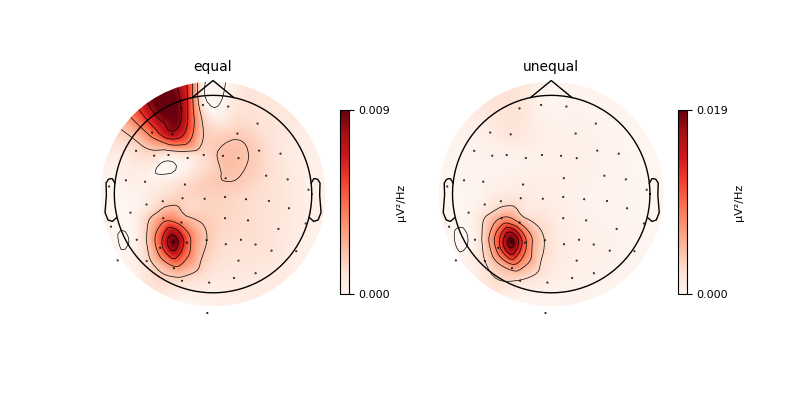
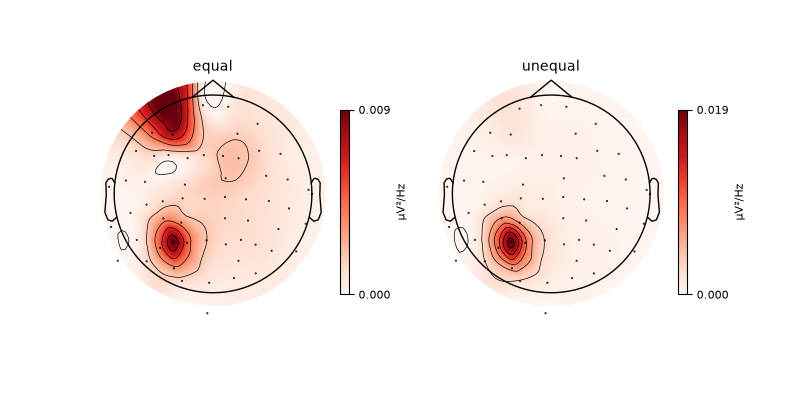
FIX: use single colors for patches instead of colormaps (#95)

diff --git a/src/meegsim/viz.py b/src/meegsim/viz.py
@@ -1,9 +1,11 @@
+from matplotlib.colors import ListedColormap
+
 from meegsim._check import check_colors, check_scale_factors
 from meegsim.sources import _get_point_sources_in_hemi, _get_patch_sources_in_hemis
 from meegsim.utils import _hemi_to_index
 
 
-DEFAULT_COLORS = dict(point="green", patch="Oranges", noise="black", candidate="yellow")
+DEFAULT_COLORS = dict(point="green", patch="orange", noise="black", candidate="yellow")
 DEFAULT_SCALE_FACTORS = dict(point=0.75, noise=0.3, candidate=0.05)
 DEFAULT_PLOT_KWARGS = dict(
     background="w",
@@ -49,7 +51,10 @@ def plot_source_configuration(
     kwargs = DEFAULT_PLOT_KWARGS.copy()
     kwargs.update(plot_kwargs)
     brain = patch_data_stc.plot(
-        subject=subject, hemi=hemi, colormap=source_colors["patch"], **kwargs
+        subject=subject,
+        hemi=hemi,
+        colormap=ListedColormap([source_colors["patch"]]),
+        **kwargs,
     )
 
     # Point/noise sources and candidate locations are added via

diff --git a/src/meegsim/configuration.py b/src/meegsim/configuration.py
@@ -126,7 +126,7 @@ class SourceConfiguration:
 
             DEFAULT_COLORS = dict(
                 point="green",
-                patch="Oranges",
+                patch="orange",
                 noise="black",
                 candidate="yellow"
             )

diff --git a/examples/basics/02_plot_brain_configuration.py b/examples/basics/02_plot_brain_configuration.py
@@ -100,6 +100,7 @@ brain = sc.plot(
     background="black",
     hemi="split",
     views=["lat", "med"],
+    time_viewer=False,
 )
 brain.add_annotation("aparc")
 
